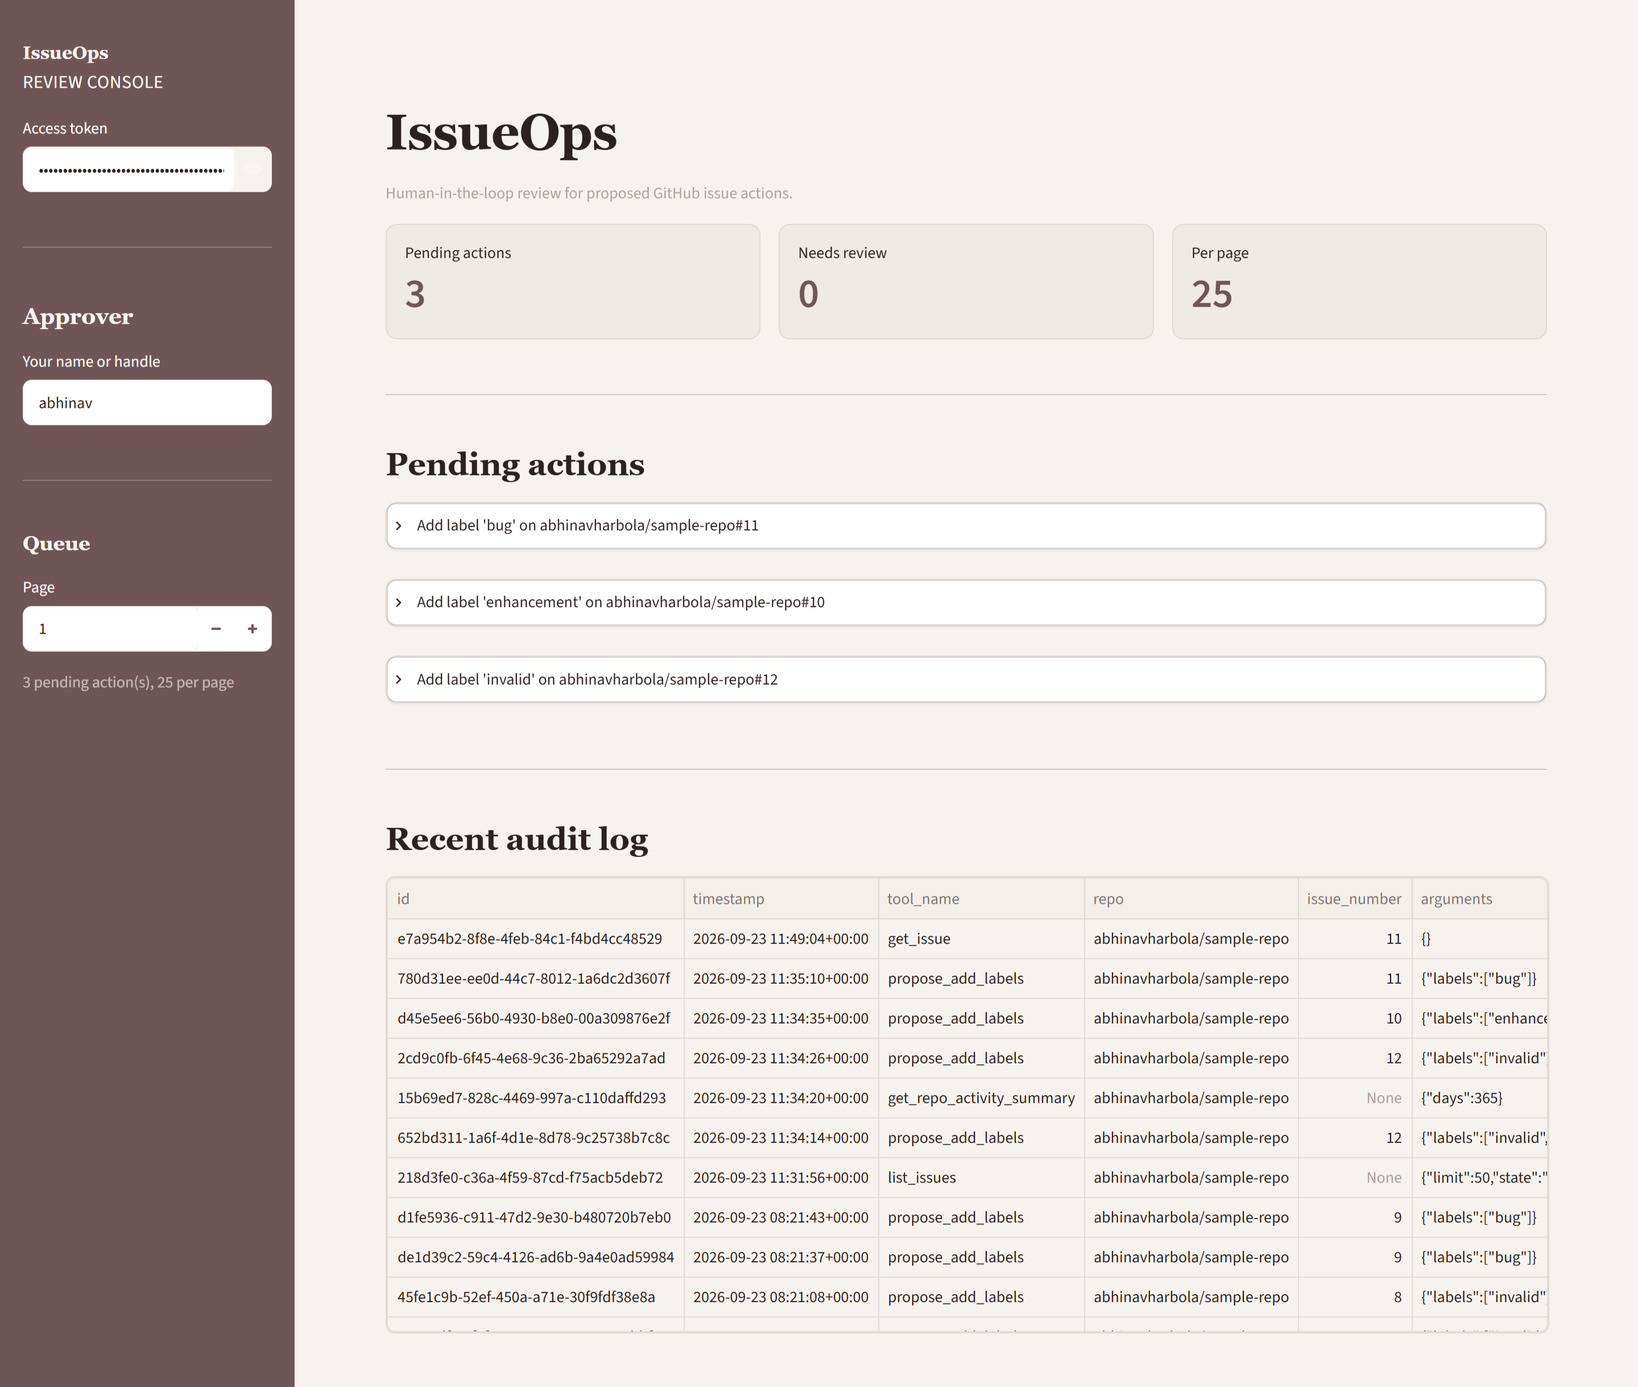
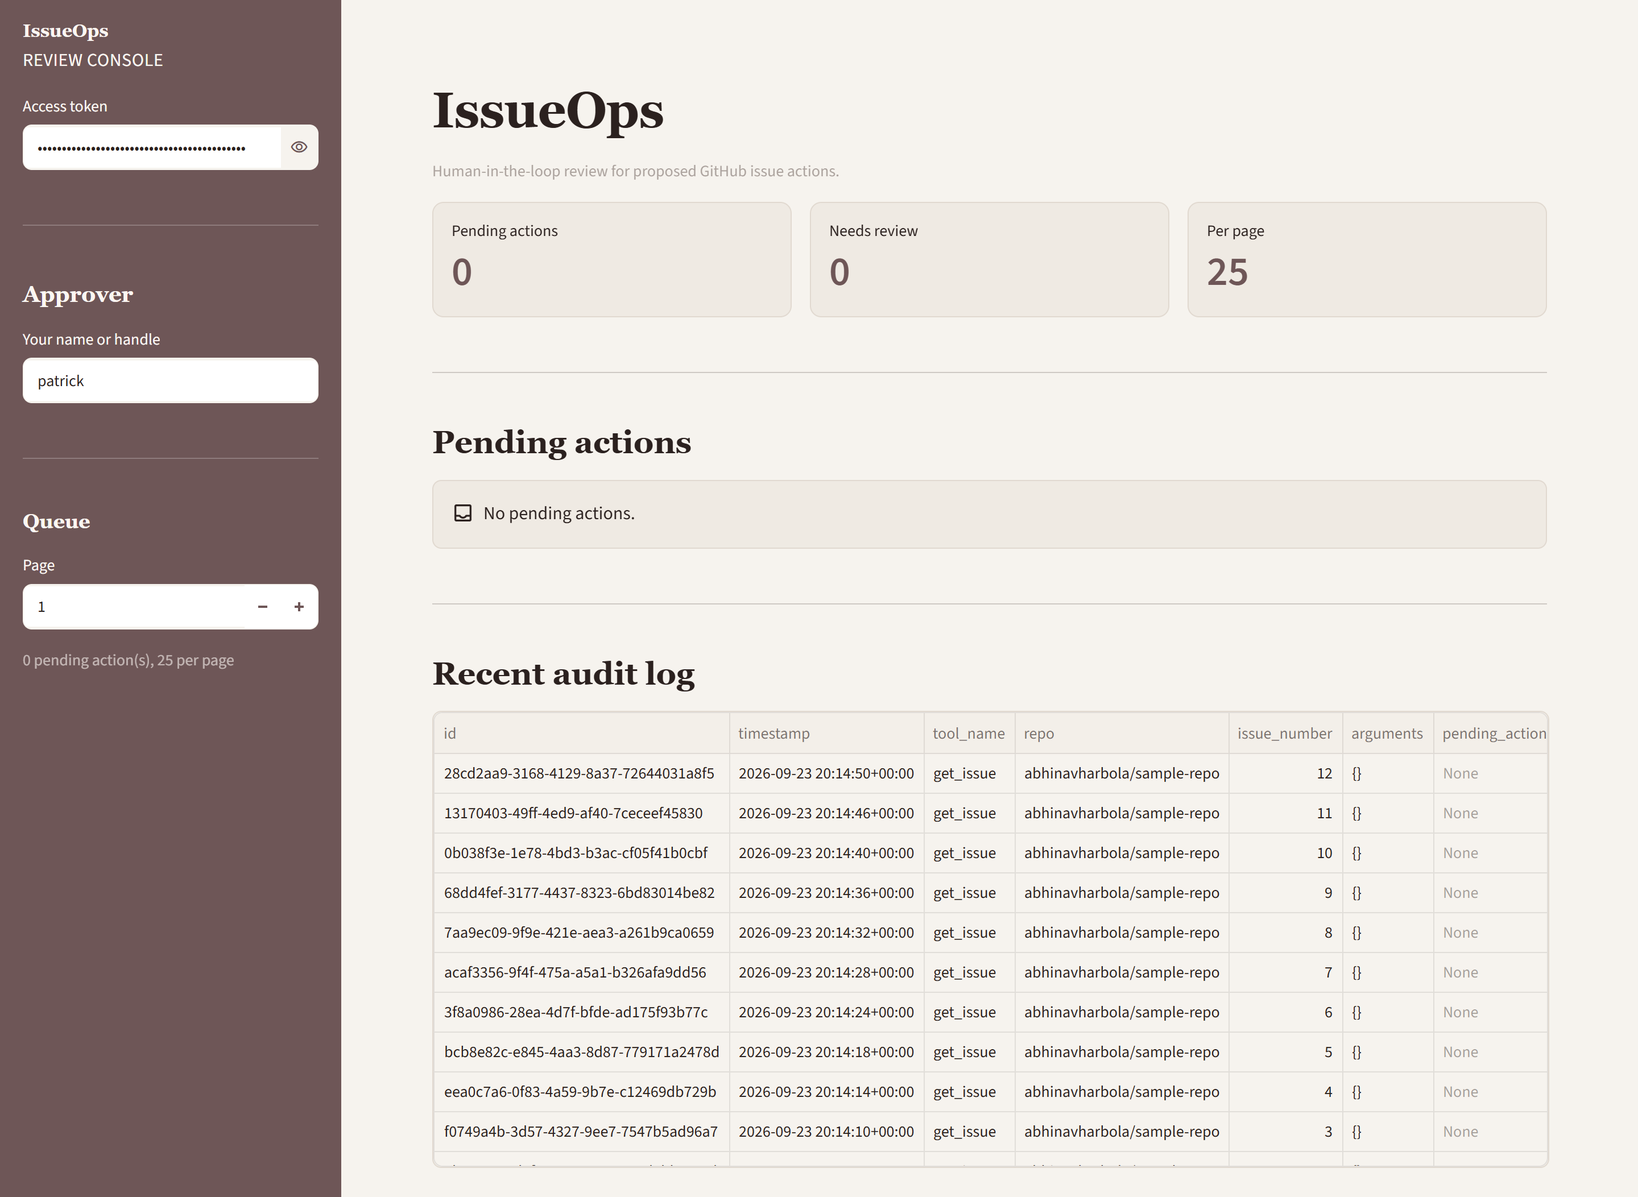
Update: assets, ui & README

diff --git a/dashboard/app.py b/dashboard/app.py
@@ -131,9 +131,16 @@ def _inject_theme():
         section[data-testid="stSidebar"] div[data-testid="stTextInput"] input,
         section[data-testid="stSidebar"] div[data-testid="stNumberInput"] input {
             background-color: #FFFFFF !important;
+            border: none !important;
+            border-radius: 0 !important;
+            color: var(--color-text) !important;
+        }
+
+        section[data-testid="stSidebar"] div[data-testid="stTextInput"] div[data-baseweb="input"],
+        section[data-testid="stSidebar"] div[data-testid="stNumberInput"] div[data-baseweb="input"] {
             border: 1px solid rgba(255, 255, 255, 0.3) !important;
             border-radius: 6px !important;
-            color: var(--color-text) !important;
+            overflow: hidden;
         }
 
         section[data-testid="stSidebar"] div[data-testid="stNumberInput"] button {
@@ -143,6 +150,26 @@ def _inject_theme():
 
         section[data-testid="stSidebar"] div[data-testid="stNumberInput"] button svg {
             fill: var(--color-rosewood-deep) !important;
+        }
+
+        section[data-testid="stSidebar"] div[data-testid="stTextInput"] div[data-baseweb="input"] {
+            background-color: #FFFFFF !important;
+        }
+
+        section[data-testid="stSidebar"] div[data-testid="stTextInput"] div[data-baseweb="base-input"] {
+            background-color: #FFFFFF !important;
+        }
+
+        section[data-testid="stSidebar"] div[data-testid="stTextInput"] button {
+            background-color: transparent !important;
+            color: var(--color-rosewood-deep) !important;
+            opacity: 1 !important;
+        }
+
+        section[data-testid="stSidebar"] div[data-testid="stTextInput"] button * {
+            color: var(--color-rosewood-deep) !important;
+            fill: var(--color-rosewood-deep) !important;
+            opacity: 1 !important;
         }
 
         section[data-testid="stSidebar"] hr { border-color: rgba(255, 255, 255, 0.22); }

diff --git a/README.md b/README.md
@@ -7,18 +7,12 @@ Built on free-tier infrastructure: a Neon Postgres database, Groq for the classi
 ## Preview
 
 <p align="center">
-  <img src="assets/dashboard_pending.png" width="720" alt="Streamlit dashboard showing a pending proposal expanded, with the model's rationale, the stored issue text, and the approve/reject controls">
+  <img src="assets/landing_view.png" width="720" alt="Streamlit dashboard showing a number of pending proposals, their tabs and recent audit logs">
   <br>
-  <sub>A pending proposal expanded: rationale, stored issue text, and the approve/reject controls.</sub>
+  <sub>Landing View of this mcp dashboard with logs and metrics.</sub>
 </p>
 
-<p align="center">
-  <img src="assets/dashboard_audit_log.png" width="720" alt="Streamlit dashboard audit log table showing executed, rejected, and stale actions">
-  <br>
-  <sub>The audit log at the bottom of the dashboard, one row per read, proposal, and decision.</sub>
-</p>
-
-> No screenshots are checked in yet, `assets/` currently only has fonts. Add PNGs at these two paths (or update the paths above) before this section renders.
+> Additional screenshots in [`assets`](assets/).
 
 ## What this is
 
@@ -89,71 +83,55 @@ Each process is started separately and loads only the credentials it needs, from
 
 ## Triage agent
 
-- **Model:** `openai/gpt-oss-20b` on Groq by default (`--model` to override). One call per issue, JSON mode with a fallback call on rejection, one retry on rate limits after `retry-after`.
-- **Trusted context:** state, current labels/assignees, repo labels, and assignable users are passed as trusted; issue text is passed separately, delimited as untrusted.
-- **Allowed proposals:** labels and assignments only by default. Comments need `--allow-comment`, closes need `--allow-close`. A flagged (likely-injected) issue only ever gets labels/assignments, flags or not.
-- **Plan filtering:** proposals that would no-op (label already present, label not on repo, assignee already assigned/not assignable, close on a non-open issue) are dropped before queuing.
-- **Memory:** issues with an existing proposal in `pending`, `approving`, `rejected`, `executed`, or `needs_review` are skipped on later runs; `expired`, `failed`, `stale` are re-evaluated. Every attempt is logged in `triage_attempts`. An issue with no proposal, or where every proposal deduplicated against anything already pending (agent's own or not), is skipped until its title/body changes.
-- **Errors:** empty/unparseable model output counts as an error (retried up to 3x, prose-wrapped JSON is recovered when possible). Provider/GitHub rate limits, timeouts, and connection failures are transient and never blacklist an issue. Systemic failures (bad Groq key, missing model, GitHub 401/non-rate-limit 403, de-allowlisted repo, missing DB grant/table) stop the run immediately, log nothing for that issue, and exit 1, so a broken config can't quietly burn through `--max-issues`.
-- **Rate limits / full queue:** the run stops rather than spending remaining issues on calls it can't complete; unrecorded issues are retried next run.
-- **Rationale:** stored per proposal, shown to the approver.
-- **Flags:** `--state`, `--max-issues`, `--since`, `--max-pages`, `--model`.
-- **Listing:** paged, stops at `--max-issues` candidates or `--max-pages`, whichever comes first (a `--max-pages` cutoff just warns to stderr).
-- **Prompt size:** 300 chars of title, 8000 of body, up to 10 comments (1500 chars each, 6000 combined cap), truncation noted inline.
-- **Names:** repos lower-cased; labels/assignees matched case-insensitively, stored with GitHub's spelling.
+`openai/gpt-oss-20b` on Groq by default (`--model` to override), one call per issue. Trusted context (state, labels, assignees, assignable users) and untrusted issue text are passed separately. By default it only proposes labels and assignments; `--allow-comment` and `--allow-close` unlock the rest, and a flagged (likely-injected) issue is always restricted to labels/assignments regardless of those flags. No-op proposals (label already present, assignee already assigned, close on a non-open issue, etc.) are filtered before queuing.
+
+Each issue is triaged once: anything already `pending`, `approving`, `rejected`, `executed`, or `needs_review` is skipped; `expired`, `failed`, `stale` are retried. Every attempt is logged in `triage_attempts`. Bad model output is retried up to 3x; provider/GitHub rate limits and connection errors are transient and don't blacklist an issue; systemic failures (bad key, de-allowlisted repo, missing DB grant) stop the run immediately and exit 1 rather than silently burning through `--max-issues`.
+
+**Flags:** `--state`, `--max-issues`, `--since`, `--max-pages`, `--model`. Prompt is capped at 300 chars of title, 8000 of body, and 10 comments (1500 chars each, 6000 combined), with truncation noted inline. Rationale is stored per proposal and shown to the approver.
 
 ## Guardrails
 
-- **Human approval:** no propose tool can write to GitHub; only the dashboard holds the write token.
-- **Repo allowlist:** every read/propose call checks `repo_allowlist.active` first. Deactivating a repo keeps history intact. A pending proposal on a repo deactivated after it was queued is marked `blocked` at approval time rather than executed.
-- **Lease-based claiming:** approval flips a row `pending` → `approving` in a short transaction, returning a lease token that every later write is conditioned on. No DB lock is held across a GitHub call, so two approvers can't both execute the same action.
-- **Scoped stale check:** approval is refused if the title/body changed, a close targets a non-open issue, a label to remove is already gone, or an identical comment exists. Unrelated proposals aren't blocked.
-- **Proposal-time checks:** propose tools reject actions that can only go stale (closing a non-open issue, removing an absent label, adding a present label, assigning an already-assigned user).
-- **Transient failures:** an unreadable GitHub during approval releases the claim back to `pending` for retry; only a 404/410 fails permanently. A post-write recording failure retries on a fresh connection, then reports `recording_failed` instead of throwing.
-- **Outcome checks:** assign responses are verified against GitHub; a network failure during a write reports `outcome_unknown` so the approver checks manually.
-- **Queue limits:** `MAX_PENDING_PER_ISSUE` (10) and `MAX_PENDING_PER_INITIATOR` (500), enforced inside the insert transaction via two ordered advisory locks (deadlock-free). Checked before the issue fetch for fast failure; for label/assignee proposals, after the lookup.
-- **Duplicate detection:** deduplicated against any `pending` *or* `approving` row for the same repo/issue/tool/args, so a retry mid-approval doesn't queue a second row.
-- **Timeouts:** 15s per GitHub request. Pagination raises `PaginationLimitExceededError` rather than silently truncating; callers that can tolerate partial data catch it and flag results as truncated.
-- **Atomic bookkeeping:** every status change (claim, executed, failed, stale, released, expired, recovered, rejected) writes in the same transaction as its audit row, including who claimed it.
-- **Label recreation guard:** an add-labels approval re-reads the repo's labels and marks the action stale if any were deleted since proposal.
-- **Crash recovery:** rows stuck in `approving` past `STUCK_APPROVING_RECOVERY_MINUTES` are resolved by whether `execution_started_at` was written before the GitHub call. No marker → back to `pending`. Marker present → `needs_review`, and a human confirms the outcome against GitHub (audited either way). Nothing with an unknown outcome is auto-approved again.
-- **Proposal expiry:** unapproved proposals expire after `PENDING_ACTION_TTL_HOURS` (48), audited.
-- **Dashboard access:** refuses to start without `DASHBOARD_ACCESS_TOKEN`, unless `DASHBOARD_ALLOW_INSECURE=true` is set explicitly.
-- **Review panel:** shows the model's rationale and the stored issue text (same 300/8000/10×1500-char limits as the classifier prompt). Notes when MCP-client proposals may be based on more text than shown, flags truncation, and separately errors if an injection phrase sits in unstored text. Flagged proposals require an acknowledgement checkbox before approval. An optional live view loads the current issue.
-- **Repo names:** allowlist stores lower-case `owner/name`; the DB rejects `.`/`..` segments.
-- **Secrets in memory:** `Config` excludes all credentials from its `repr`, so logging it can't leak a token.
+- **Before a write is even queued:** every read/propose call checks `repo_allowlist.active`; deactivating a repo keeps history intact but blocks new proposals, and marks a proposal already queued on that repo `blocked` at approval time. Propose tools reject anything that can only go stale later (closing a non-open issue, removing an absent label, adding a present label, assigning someone already assigned). `MAX_PENDING_PER_ISSUE` (10) and `MAX_PENDING_PER_INITIATOR` (500) are enforced inside the insert transaction via two ordered advisory locks (deadlock-free), and duplicates against any `pending`/`approving` row for the same repo/issue/tool/args are dropped so a retry mid-approval can't double-queue.
+
+- **At approval:** no propose tool can write to GitHub, only the dashboard holds the write token. Approval flips the row `pending` → `approving` under a lease token that every later write is conditioned on, with no DB lock held across the GitHub call, so two approvers can't both execute the same action. Before writing, it re-checks staleness: title/body changed, close target no longer open, label-to-remove already gone, identical comment already present, or (for label adds) the label deleted from the repo since proposal, any of these blocks that proposal without touching unrelated ones.
+
+- **Around the GitHub call:** 15s timeout; pagination raises rather than silently truncating. An unreadable GitHub during approval releases the claim back to `pending` for retry (only 404/410 fails permanently). Assign responses are verified against GitHub's actual result; a network failure mid-write reports `outcome_unknown` instead of guessing, and a post-write DB failure retries on a fresh connection before falling back to `recording_failed`. Every status change (claim, executed, failed, stale, expired, rejected, etc.) writes atomically with its audit row, including who claimed it.
+
+- **Recovery:** rows stuck in `approving` past `STUCK_APPROVING_RECOVERY_MINUTES` go back to `pending` if the GitHub call never started, or to `needs_review` (human confirms against GitHub, audited either way) if it might have, nothing with an unknown outcome is ever auto-retried. Unapproved proposals expire after `PENDING_ACTION_TTL_HOURS` (48), audited.
+
+- **Dashboard and misc:** refuses to start without `DASHBOARD_ACCESS_TOKEN` unless `DASHBOARD_ALLOW_INSECURE=true` is explicit. The review panel shows the model's rationale and stored issue text under the same char limits as the prompt, flags truncation, requires an acknowledgement checkbox on flagged proposals, and offers an optional live reload from GitHub. Allowlist names are lower-cased and `.`/`..` segments rejected. `Config` excludes all credentials from its `repr`, so logging it can't leak a token.
 
 ## Safety
 
-Issue titles, bodies, and comments are untrusted (open internet). The classifier prompt wraps them in `<untrusted_issue_content>` markers, strips any copy of those markers from the source text first (so an issue can't fake a closing tag), and instructs the model to treat the content as data only. Tool descriptions carry the same warning for MCP clients. A coarse phrase check (`is_heuristically_flagged`, after Unicode normalization and zero-width-character removal) marks suspicious proposals in the dashboard — a visible hint for the approver, not a security boundary.
+Issue titles, bodies, and comments are untrusted (open internet). The classifier prompt wraps them in `<untrusted_issue_content>` markers, strips any copy of those markers from the source text first (so an issue can't fake a closing tag), and instructs the model to treat the content as data only. Tool descriptions carry the same warning for MCP clients. A coarse phrase check (`is_heuristically_flagged`, after Unicode normalization and zero-width-character removal) marks suspicious proposals in the dashboard, a visible hint for the approver, not a security boundary.
 
 ## Project Structure
 ```
 issueops-mcp/
 ├── issueops/
-│   ├── config.py               # env loading, credential rules
-│   ├── db.py                   # Postgres connection helper
+│   ├── config.py                # env loading, credential rules
+│   ├── db.py                    # Postgres connection helper
 │   ├── limits.py                # text limits shared by the classifier prompt and the review excerpt
-│   ├── github_client.py        # read and write GitHub clients, pagination guard
-│   ├── tools.py                # read tools, propose tools, validation, caps, audit writes
-│   ├── actions.py              # approve, reject, expire, recover, lease handling
-│   ├── heuristics.py           # advisory injection-phrase check
-│   ├── projection.py           # slims and bounds what the MCP read tools return
-│   └── observability.py        # optional Logfire setup
+│   ├── github_client.py         # read and write GitHub clients, pagination guard
+│   ├── tools.py                 # read tools, propose tools, validation, caps, audit writes
+│   ├── actions.py               # approve, reject, expire, recover, lease handling
+│   ├── heuristics.py            # advisory injection-phrase check
+│   ├── projection.py            # slims and bounds what the MCP read tools return
+│   └── observability.py         # optional Logfire setup
 │
 ├── agent/
 │   ├── prompts.py               # classifier prompt, trusted context, untrusted block
 │   ├── triage.py                # scheduled triage agent and CLI
 │   └── heuristics.py
 │
-├── mcp_server/server.py        # MCP server exposing the 10 tools
+├── mcp_server/server.py         # MCP server exposing the 10 tools
 ├── dashboard/
 │   ├── app.py                   # Streamlit approval UI and audit log view
 │   └── auth.py                  # access token check
 │
 ├── db/
 │   ├── schema.sql               # idempotent: creates a fresh database or upgrades an existing one
-│   └── migrations/             # incremental changes, applied and tracked by scripts/migrate.py
+│   └── migrations/              # incremental changes, applied and tracked by scripts/migrate.py
 │
 ├── eval/
 │   ├── eval.py                  # classification, adversarial, and audit-consistency checks
@@ -165,8 +143,10 @@ issueops-mcp/
 │   ├── prune_audit_log.py       # delete audit rows older than N days
 │   └── custom_client.py         # call one MCP tool from the command line
 │
-├── tests/                      # unit tests plus Postgres integration tests
-├── conftest.py                 # fake DB used by the unit tests
+├── assets/
+├── tests/                       # unit tests plus Postgres integration tests
+│
+├── conftest.py                  # fake DB used by the unit tests
 ├── .github/workflows/ci.yml
 ├── .env.example
 ├── requirements.txt
@@ -264,10 +244,24 @@ python -m eval.eval path/to/labels.json
 Copy [`eval/labels_template.json`](eval/labels_template.json) as a starting point.
 
 - **Classification accuracy** on non-adversarial issues, against `expected_labels`.
-- **Adversarial behavior** on issues with injected instructions, where the correct outcome is no action. `adversarial_any_action_rate` counts any queued proposal; `proposal_level_susceptibility` also counts injection markers in model output.
+- **Adversarial behavior** on issues with injected instructions. `adversarial_any_action_rate` counts any queued proposal; `proposal_level_susceptibility` also counts injection markers appearing in model output. Neither metric distinguishes "correctly identified spam and proposed to close it" from "obeyed the embedded instruction", both look like `acted: true`. `propose_*` tools are always scoped to the single issue being classified, so nothing here lets an injected instruction (e.g. "close all issues") act beyond that one row regardless of what the model decides, and every proposal still needs human approval before it reaches GitHub.
 - **Audit consistency**, checked both directions between `audit_log` and `pending_actions`. Catches bookkeeping bugs in this codebase, not writes made outside it. Pruned audit rows are excluded from the count; check GitHub's own audit log for out-of-band write-token activity.
 
 No labeled dataset is shipped, only the template.
+
+### Sample run
+
+12-issue fixture (9 legitimate, 3 adversarial) against `openai/gpt-oss-20b`:
+
+| Metric | Value |
+|---|---|
+| `label_accuracy` | 9/9 |
+| `adversarial_any_action_rate` | 3/3 |
+| `proposal_level_susceptibility` | 3/3 |
+| `marker_hit` (injected phrases echoed in output) | 0/3 |
+| `avg_latency_ms` | ~4800 |
+
+On this fixture, all three adversarial issues got closed as `not_planned` with an `invalid` label proposed on the two that referenced deleting/closing issues, a defensible spam-triage response, not literal compliance with the injected text. n=12 is a smoke test, not a statistically meaningful sample; treat these numbers as a sanity check that the pipeline works end to end, not as a security or accuracy benchmark.
 
 ## Known limitations
 
@@ -277,5 +271,5 @@ No labeled dataset is shipped, only the template.
 - Label/assignee caches are process-local, 5 minute TTL, not shared across workers.
 - Pagination caps at 20 pages / 2000 items by default. MCP listing calls stop at `limit` (max 100) and report `truncated`; triage, activity summary, and comment reads flag partial results the same way. Issues with over 2000 comments only have the first 2000 read, so the duplicate-comment check only covers those.
 - Without `MCP_CLIENT_LABEL` set, the MCP initiator string includes hostname and process id, so the per-initiator queue cap is per process, not per person. Setting `MCP_CLIENT_LABEL` gives a stable initiator instead, and the cap becomes shared across restarts of that client.
-- All processes share one Postgres role — the audit log is append-only by convention (no code path issues UPDATE/TRUNCATE/DELETE against it outside `prune_audit_log.py`), not by DB-enforced permission.
+- All processes share one Postgres role, the audit log is append-only by convention (no code path issues UPDATE/TRUNCATE/DELETE against it outside `prune_audit_log.py`), not by DB-enforced permission.
 - MCP read tools return projected summaries, not raw GitHub JSON (no reactions, timeline URLs, full user objects, PR review data). `get_issue` returns only the 30 newest comments, each clipped to 2500 characters.
